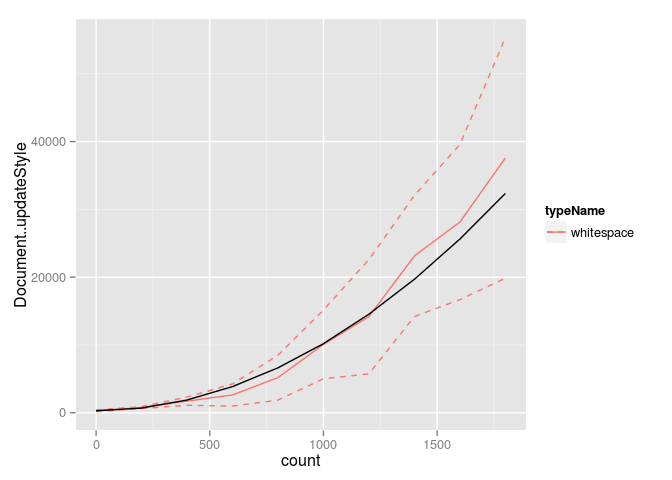
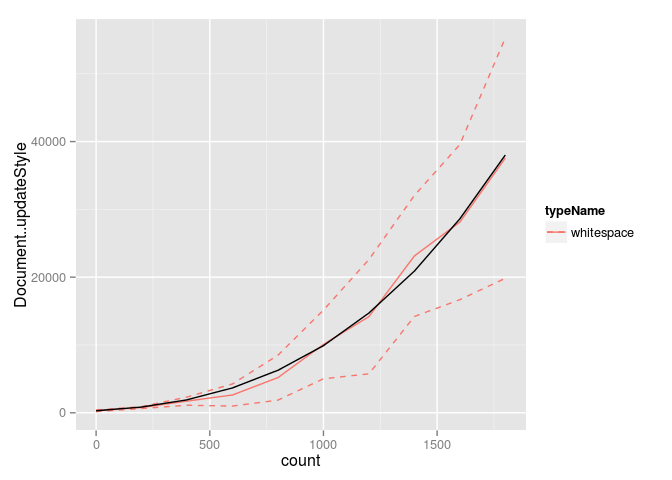
cubic??

diff --git a/styleModel.md b/styleModel.md
@@ -31,6 +31,6 @@ Without text nodes, the cost of updateStyle is linear, with an intercept of 296.
 
 ![](styleModel_files/figure-markdown_github/unnamed-chunk-8-1.png)
 
-Introducing whitespace gives a cost that we assume fits a quadratic with 0 intercept, a constrained positive count term of 0, and a count^2 term of 0.0098904.
+Introducing whitespace gives a cost that we assume fits a cubic with 0 intercept, and constrained positive parameters of 0, 0.0043433, 3.519683910^{-6}.
 
 ![](styleModel_files/figure-markdown_github/unnamed-chunk-9-1.png)
